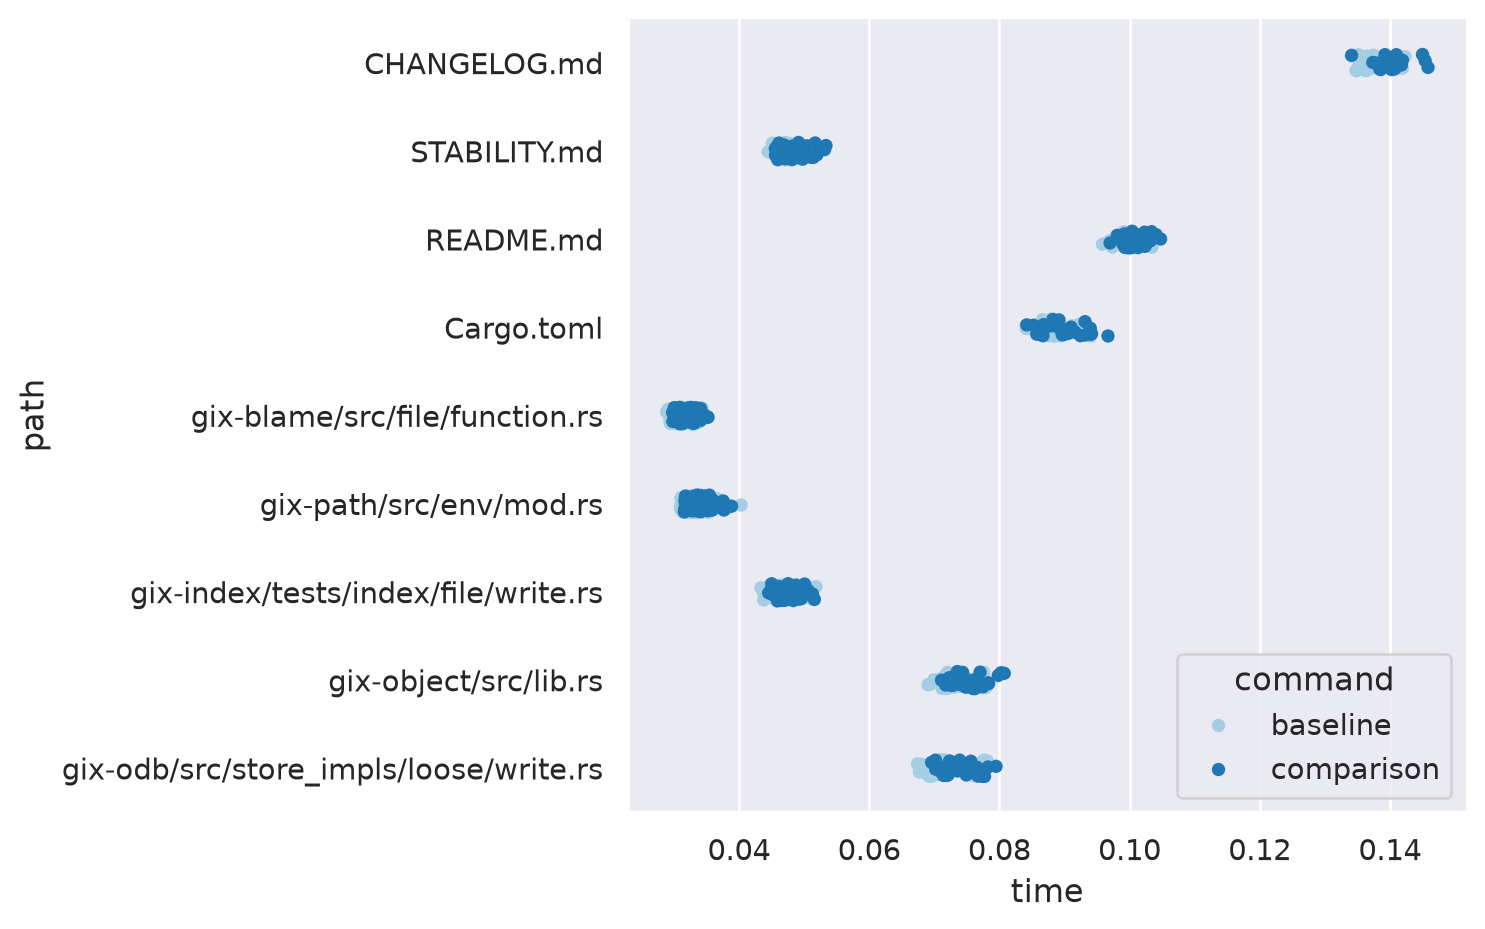
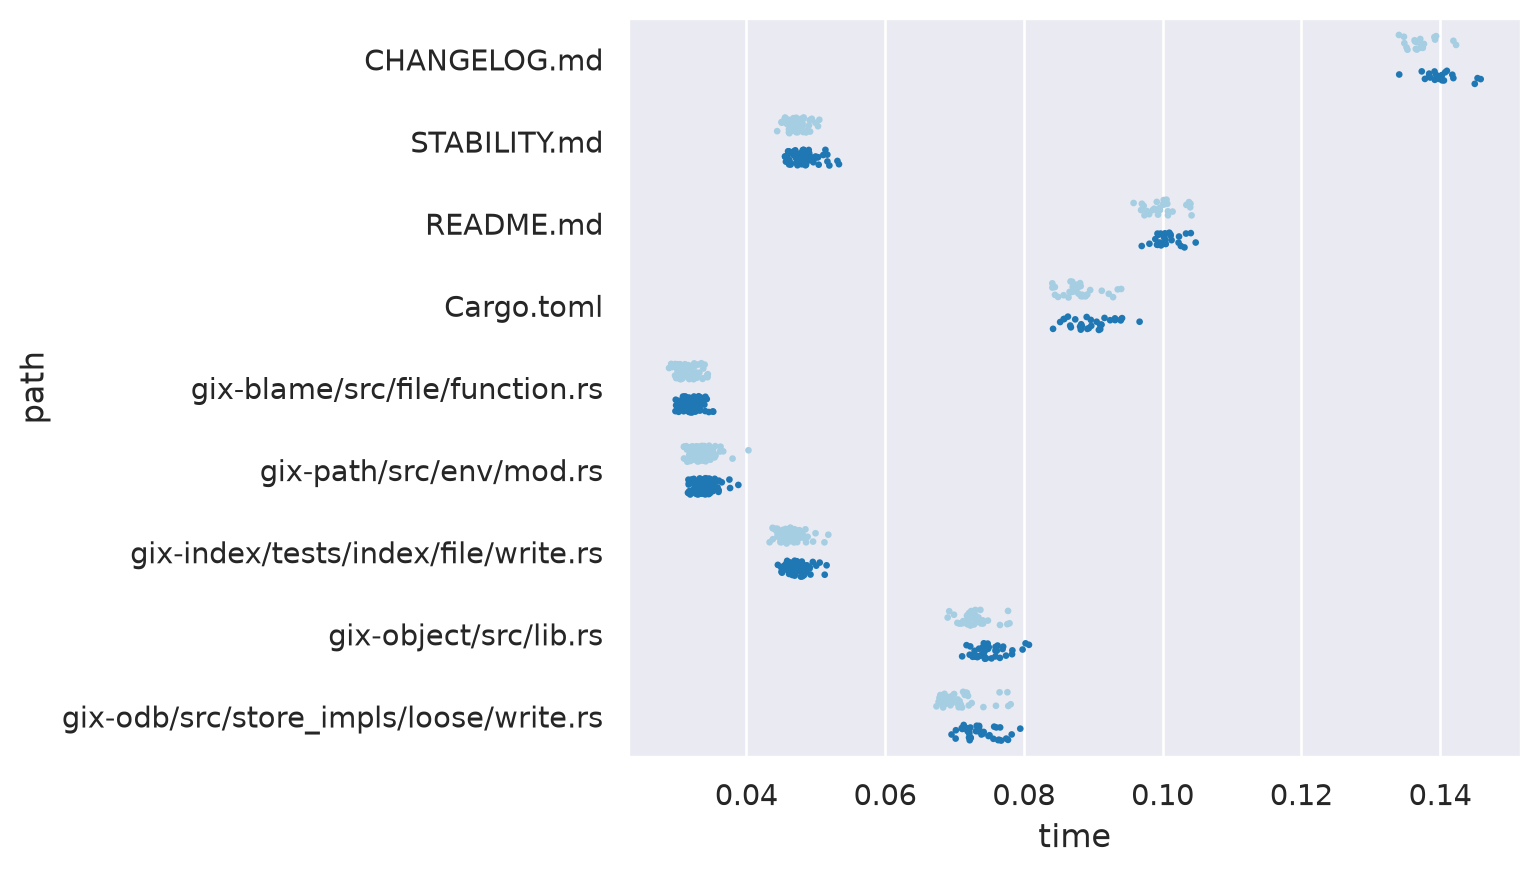
Built site for gh-pages

diff --git a/posts/gix-blame-march-2026-through-july-2026/index.html b/posts/gix-blame-march-2026-through-july-2026/index.html
@@ -195,7 +195,7 @@ pre > code.sourceCode > span > a:first-child::before { text-decoration: underlin
 <h2 class="anchored" data-anchor-id="running-the-benchmark">Running the benchmark</h2>
 <p>After compiling both executables with <code>cargo build --release --locked</code>, I ran the following script to collect some data using <code>hyperfine</code>.</p>
 <div class="code-copy-outer-scaffold"><div class="sourceCode" id="cb1"><pre class="sourceCode bash code-with-copy"><code class="sourceCode bash"><span id="cb1-1"><a href="#cb1-1" aria-hidden="true" tabindex="-1"></a><span class="fu">env</span> GIT_DIR=<span class="st">"</span><span class="va">$HOME</span><span class="st">/github/Byron/gitoxide/.git"</span> BASELINE_EXECUTABLE=<span class="st">"</span><span class="va">$HOME</span><span class="st">/bin/gix-2026-07-20-e63d487fb"</span> COMPARISON_EXECUTABLE=<span class="st">"</span><span class="va">$HOME</span><span class="st">/bin/gix-2026-07-20-9949e9fdf"</span> ./run_benchmark.py</span></code></pre></div><button title="Copy to Clipboard" class="code-copy-button"><i class="bi"></i></button></div>
-<div id="c28ff445" class="cell" data-execution_count="1">
+<div id="aac8adf4" class="cell" data-execution_count="1">
 <details class="code-fold">
 <summary><code>run_benchmark.py</code>, the script used to benchmark both versions of <code>gix blame</code></summary>
 <div class="code-copy-outer-scaffold"><div class="sourceCode cell-code" id="cb2"><pre class="sourceCode python code-with-copy"><code class="sourceCode python"><span id="cb2-1"><a href="#cb2-1" aria-hidden="true" tabindex="-1"></a><span class="co">#!/usr/bin/env python</span></span>
@@ -231,7 +231,7 @@ pre > code.sourceCode > span > a:first-child::before { text-decoration: underlin
 <section id="analyzing-the-data" class="level2">
 <h2 class="anchored" data-anchor-id="analyzing-the-data">Analyzing the data</h2>
 <p>Then, in order to work with these files, we’re going to use <code>numpy</code> and <code>pandas</code> to load them into <code>data</code>.</p>
-<div id="6813b800" class="cell" data-execution_count="2">
+<div id="283d4e5f" class="cell" data-execution_count="2">
 <details class="code-fold">
 <summary>A few helper functions for loading the data</summary>
 <div class="code-copy-outer-scaffold"><div class="sourceCode cell-code" id="cb3"><pre class="sourceCode python code-with-copy"><code class="sourceCode python"><span id="cb3-1"><a href="#cb3-1" aria-hidden="true" tabindex="-1"></a><span class="im">import</span> numpy <span class="im">as</span> np</span>
@@ -254,7 +254,7 @@ pre > code.sourceCode > span > a:first-child::before { text-decoration: underlin
 <span id="cb3-18"><a href="#cb3-18" aria-hidden="true" tabindex="-1"></a>    <span class="cf">return</span> {<span class="st">"command"</span>: command, <span class="st">"path"</span>: path, <span class="st">"time"</span>: result[<span class="st">"times"</span>]}</span></code></pre></div><button title="Copy to Clipboard" class="code-copy-button"><i class="bi"></i></button></div>
 </details>
 </div>
-<div id="b77d719d" class="cell" data-execution_count="3">
+<div id="a96c8d99" class="cell" data-execution_count="3">
 <div class="code-copy-outer-scaffold"><div class="sourceCode cell-code" id="cb4"><pre class="sourceCode python code-with-copy"><code class="sourceCode python"><span id="cb4-1"><a href="#cb4-1" aria-hidden="true" tabindex="-1"></a>filenames <span class="op">=</span> [<span class="ss">f"benchmark-</span><span class="sc">{</span>i<span class="sc">}</span><span class="ss">.json"</span> <span class="cf">for</span> i <span class="kw">in</span> <span class="bu">range</span>(<span class="dv">1</span>, <span class="dv">10</span>)]</span>
 <span id="cb4-2"><a href="#cb4-2" aria-hidden="true" tabindex="-1"></a>results <span class="op">=</span> [load_results(filename) <span class="cf">for</span> filename <span class="kw">in</span> filenames]</span>
 <span id="cb4-3"><a href="#cb4-3" aria-hidden="true" tabindex="-1"></a>results <span class="op">=</span> [extract_data_points(result) <span class="cf">for</span> result <span class="kw">in</span> np.concatenate(results)]</span>
@@ -268,7 +268,7 @@ pre > code.sourceCode > span > a:first-child::before { text-decoration: underlin
 </section>
 <section id="creating-a-boxplot" class="level2">
 <h2 class="anchored" data-anchor-id="creating-a-boxplot">Creating a boxplot</h2>
-<div id="af11fce3" class="cell" data-execution_count="4">
+<div id="99c2f7fc" class="cell" data-execution_count="4">
 <details class="code-fold">
 <summary>Code</summary>
 <div class="code-copy-outer-scaffold"><div class="sourceCode cell-code" id="cb5"><pre class="sourceCode python code-with-copy"><code class="sourceCode python"><span id="cb5-1"><a href="#cb5-1" aria-hidden="true" tabindex="-1"></a>FIGURE_WIDTH <span class="op">=</span> <span class="dv">8</span></span>
@@ -280,7 +280,7 @@ pre > code.sourceCode > span > a:first-child::before { text-decoration: underlin
 <span id="cb5-7"><a href="#cb5-7" aria-hidden="true" tabindex="-1"></a>)</span></code></pre></div><button title="Copy to Clipboard" class="code-copy-button"><i class="bi"></i></button></div>
 </details>
 </div>
-<div id="21aab198" class="cell" data-execution_count="5">
+<div id="022c699d" class="cell" data-execution_count="5">
 <div class="code-copy-outer-scaffold"><div class="sourceCode cell-code" id="cb6"><pre class="sourceCode python code-with-copy"><code class="sourceCode python"><span id="cb6-1"><a href="#cb6-1" aria-hidden="true" tabindex="-1"></a>boxplot <span class="op">=</span> sns.boxplot(x<span class="op">=</span><span class="st">"time"</span>, y<span class="op">=</span><span class="st">"path"</span>, hue<span class="op">=</span><span class="st">"command"</span>, data<span class="op">=</span>data)</span>
 <span id="cb6-2"><a href="#cb6-2" aria-hidden="true" tabindex="-1"></a>sns.despine(offset<span class="op">=</span><span class="dv">10</span>, trim<span class="op">=</span><span class="va">True</span>)</span>
 <span id="cb6-3"><a href="#cb6-3" aria-hidden="true" tabindex="-1"></a>mpl.pyplot.tight_layout()</span>
@@ -294,24 +294,27 @@ pre > code.sourceCode > span > a:first-child::before { text-decoration: underlin
 </div>
 </div>
 </section>
-<section id="creating-a-catplot" class="level2">
-<h2 class="anchored" data-anchor-id="creating-a-catplot">Creating a catplot</h2>
-<div id="511ccb75" class="cell" data-execution_count="6">
-<div class="code-copy-outer-scaffold"><div class="sourceCode cell-code" id="cb7"><pre class="sourceCode python code-with-copy"><code class="sourceCode python"><span id="cb7-1"><a href="#cb7-1" aria-hidden="true" tabindex="-1"></a>catplot <span class="op">=</span> sns.catplot(</span>
-<span id="cb7-2"><a href="#cb7-2" aria-hidden="true" tabindex="-1"></a>    x<span class="op">=</span><span class="st">"time"</span>,</span>
-<span id="cb7-3"><a href="#cb7-3" aria-hidden="true" tabindex="-1"></a>    y<span class="op">=</span><span class="st">"path"</span>,</span>
-<span id="cb7-4"><a href="#cb7-4" aria-hidden="true" tabindex="-1"></a>    hue<span class="op">=</span><span class="st">"command"</span>,</span>
-<span id="cb7-5"><a href="#cb7-5" aria-hidden="true" tabindex="-1"></a>    legend_out<span class="op">=</span><span class="va">False</span>,</span>
-<span id="cb7-6"><a href="#cb7-6" aria-hidden="true" tabindex="-1"></a>    height<span class="op">=</span>FIGURE_WIDTH <span class="op">/</span> FIGURE_ASPECT,</span>
-<span id="cb7-7"><a href="#cb7-7" aria-hidden="true" tabindex="-1"></a>    aspect<span class="op">=</span>FIGURE_ASPECT,</span>
-<span id="cb7-8"><a href="#cb7-8" aria-hidden="true" tabindex="-1"></a>    data<span class="op">=</span>data,</span>
-<span id="cb7-9"><a href="#cb7-9" aria-hidden="true" tabindex="-1"></a>)</span>
-<span id="cb7-10"><a href="#cb7-10" aria-hidden="true" tabindex="-1"></a></span>
-<span id="cb7-11"><a href="#cb7-11" aria-hidden="true" tabindex="-1"></a>mpl.pyplot.show()</span></code></pre></div><button title="Copy to Clipboard" class="code-copy-button"><i class="bi"></i></button></div>
+<section id="creating-a-stripplot" class="level2">
+<h2 class="anchored" data-anchor-id="creating-a-stripplot">Creating a stripplot</h2>
+<div id="6c3711cc" class="cell" data-execution_count="6">
+<div class="code-copy-outer-scaffold"><div class="sourceCode cell-code" id="cb7"><pre class="sourceCode python code-with-copy"><code class="sourceCode python"><span id="cb7-1"><a href="#cb7-1" aria-hidden="true" tabindex="-1"></a>mpl.pyplot.figure(figsize<span class="op">=</span>(FIGURE_WIDTH <span class="op">*</span> <span class="fl">0.75</span>, FIGURE_WIDTH <span class="op">/</span> FIGURE_ASPECT))</span>
+<span id="cb7-2"><a href="#cb7-2" aria-hidden="true" tabindex="-1"></a></span>
+<span id="cb7-3"><a href="#cb7-3" aria-hidden="true" tabindex="-1"></a>stripplot <span class="op">=</span> sns.stripplot(</span>
+<span id="cb7-4"><a href="#cb7-4" aria-hidden="true" tabindex="-1"></a>    x<span class="op">=</span><span class="st">"time"</span>,</span>
+<span id="cb7-5"><a href="#cb7-5" aria-hidden="true" tabindex="-1"></a>    y<span class="op">=</span><span class="st">"path"</span>,</span>
+<span id="cb7-6"><a href="#cb7-6" aria-hidden="true" tabindex="-1"></a>    hue<span class="op">=</span><span class="st">"command"</span>,</span>
+<span id="cb7-7"><a href="#cb7-7" aria-hidden="true" tabindex="-1"></a>    dodge<span class="op">=</span><span class="va">True</span>,</span>
+<span id="cb7-8"><a href="#cb7-8" aria-hidden="true" tabindex="-1"></a>    size<span class="op">=</span><span class="fl">2.5</span>,</span>
+<span id="cb7-9"><a href="#cb7-9" aria-hidden="true" tabindex="-1"></a>    jitter<span class="op">=</span><span class="fl">0.2</span>,</span>
+<span id="cb7-10"><a href="#cb7-10" aria-hidden="true" tabindex="-1"></a>    legend<span class="op">=</span><span class="va">False</span>,</span>
+<span id="cb7-11"><a href="#cb7-11" aria-hidden="true" tabindex="-1"></a>    data<span class="op">=</span>data,</span>
+<span id="cb7-12"><a href="#cb7-12" aria-hidden="true" tabindex="-1"></a>)</span>
+<span id="cb7-13"><a href="#cb7-13" aria-hidden="true" tabindex="-1"></a></span>
+<span id="cb7-14"><a href="#cb7-14" aria-hidden="true" tabindex="-1"></a>mpl.pyplot.show()</span></code></pre></div><button title="Copy to Clipboard" class="code-copy-button"><i class="bi"></i></button></div>
 <div class="cell-output cell-output-display">
 <div>
 <figure class="figure">
-<p><img src="index_files/figure-html/cell-7-output-1.png" width="743" height="465" class="figure-img"></p>
+<p><img src="index_files/figure-html/cell-7-output-1.png" width="770" height="437" class="figure-img"></p>
 </figure>
 </div>
 </div>

diff --git a/index.html b/index.html
@@ -204,7 +204,7 @@ window.Quarto = {
 
 <div class="quarto-listing quarto-listing-container-default" id="listing-listing">
 <div class="list quarto-listing-default">
-<div class="quarto-post image-right" data-index="0" data-categories="Y29kZSUyQ2FuYWx5c2lz" data-listing-date-sort="1784419200000" data-listing-file-modified-sort="1784575614758" data-listing-date-modified-sort="NaN" data-listing-reading-time-sort="4" data-listing-word-count-sort="601">
+<div class="quarto-post image-right" data-index="0" data-categories="Y29kZSUyQ2FuYWx5c2lz" data-listing-date-sort="1784419200000" data-listing-file-modified-sort="1784579127945" data-listing-date-modified-sort="NaN" data-listing-reading-time-sort="4" data-listing-word-count-sort="608">
 <div class="thumbnail"><a href="./posts/gix-blame-march-2026-through-july-2026/index.html" class="no-external">
 
 <p class="card-img-top"><img loading='lazy' src="posts/gix-blame-march-2026-through-july-2026/index_files/figure-html/cell-6-output-1.png"  class="thumbnail-image card-img"/></p>
